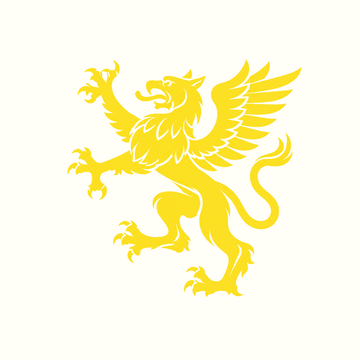
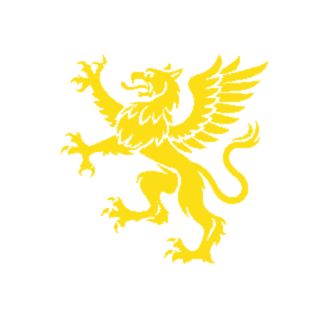
Griffin transparency + size tweaks
1. Regenerate the hero griffin with a hard threshold so the cream background is
   fully transparent (no yellow box on the dark hero)
2. Hero griffin ~10% smaller
3. Header OBRA logo ~10% larger

Claude-Session: https://claude.ai/code/session_01K6JCyKuw72oMNnxYPpY2ka

diff --git a/components/sections/Hero.tsx b/components/sections/Hero.tsx
@@ -19,9 +19,9 @@ export function Hero() {
               <Image
                 src="/brand/griffin-yellow.png"
                 alt=""
-                width={360}
-                height={360}
-                className="mb-4 h-12 w-12 sm:h-16 sm:w-16"
+                width={320}
+                height={320}
+                className="mb-4 h-[2.7rem] w-[2.7rem] sm:h-[3.6rem] sm:w-[3.6rem]"
               />
               <h1 className="font-display text-[clamp(2.6rem,6.3vw,5.75rem)] font-black uppercase leading-[0.95] tracking-[-0.01em] text-white">
                 Football jerseys

diff --git a/components/Header.tsx b/components/Header.tsx
@@ -56,7 +56,7 @@ export function Header() {
               width={1104}
               height={426}
               priority
-              className="h-7 w-auto sm:h-8"
+              className="h-[1.95rem] w-auto sm:h-[2.2rem]"
             />
           </Link>
 
